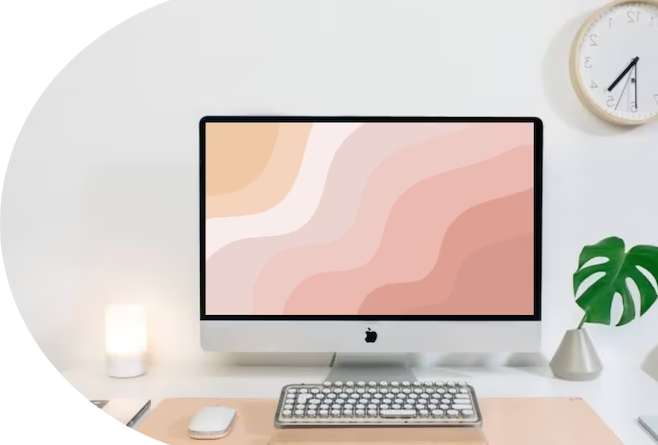
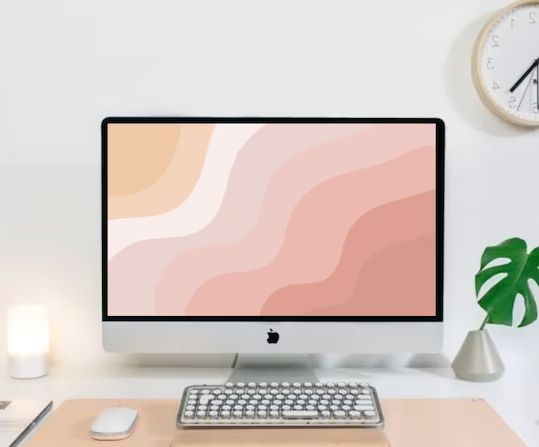
Changed style of page

diff --git a/index.html b/index.html
@@ -31,8 +31,8 @@
         <h3>Front-end developer from Ukraine, based in USA</h3>
         <a href="#" class="btn btn-branding">GET IN TOUCH</a>
       </div>
-
-      <div class="row mt-lg-5 mb-lg-5">
+      <p class="text-center m-lg-5 project-title">- About me -</p>
+      <div class="row mt-lg-2 mb-lg-5">
         <div class="col-lg-7 about-section">
           <p>
             <strong>About me:</strong>
@@ -47,21 +47,23 @@
             <br />
             HTML, CSS, JavaScript, Editor, API, GitHub, Bootstrap, Hosting
           </p>
-          <a href="" class="btn btn-branding-outline mt-3">My projects</a>
+          <a href="" class="btn btn-branding-outline d-none d-lg-inline"
+            >My projects</a
+          >
         </div>
         <div class="col-lg-5">
           <img src="/pictures/photo.JPG" alt="my photo" class="my-photo" />
         </div>
       </div>
 
-      <p class="text-center m-lg-5 project-title">🌺My projects🌺</p>
+      <p class="text-center m-lg-5 project-title">- My projects -</p>
 
       <div class="project-description row text-center">
         <div class="col d-none d-lg-block">
           <img
             src="/pictures/laptop.png"
             alt="my project photo"
-            class="project-photo img-fluid"
+            class="project-photo-l img-fluid"
           />
         </div>
         <div class="col">
@@ -91,7 +93,7 @@
           <img
             src="/pictures/laptop2.png"
             alt="my project photo"
-            class="project-photo img-fluid"
+            class="project-photo-r img-fluid"
           />
         </div>
       </div>
@@ -101,7 +103,7 @@
           <img
             src="/pictures/laptop.png"
             alt="my project photo"
-            class="project-photo img-fluid"
+            class="project-photo-l img-fluid"
           />
         </div>
         <div class="col">

diff --git a/styles/portfolio.css b/styles/portfolio.css
@@ -1,6 +1,6 @@
 :root {
   --primary-color: antiquewhite;
-  --branding-color: rgb(194, 27, 27);
+  --branding-color: #dd7f80;
   --first-font: "Playfair Display", serif;
   --second-font: "Poppins", sans-serif;
   --third-font: "Fuzzy Bubbles", cursive;
@@ -30,7 +30,7 @@ h3 {
 
 .hero {
   text-align: center;
-  background-image: url("/pictures/wallpaper.png");
+  background-image: url("/pictures/pink.jpg");
   background-size: cover;
   padding: 150px 20px;
 }
@@ -45,24 +45,33 @@ h3 {
 
 .btn-branding:hover {
   color: white;
-  background-color: rgb(179, 42, 42);
+  background-color: #cf7375;
 }
 
 .btn-branding-outline {
   color: white;
-  background-color: #e97e9e;
+  background-color: var(--branding-color);
   padding: 10px 15px;
   margin-top: 15px;
   font-size: 18px;
+  font-family: var(--third-font);
 }
 
 .btn-branding-outline:hover {
   color: white;
-  background-color: #d86f8f;
+  background-color: #cf7375;
 }
 
-.project-photo {
+.project-photo-l {
   max-width: 85%;
+  border-top-right-radius: 400px;
+  border-bottom-right-radius: 400px;
+}
+
+.project-photo-r {
+  max-width: 85%;
+  border-top-left-radius: 400px;
+  border-bottom-left-radius: 400px;
 }
 
 .project-description {
@@ -71,8 +80,8 @@ h3 {
 
 .project-title {
   font-size: 35px;
-  font-family: var(--first-font);
-  font-weight: 700;
+  font-family: var(--second-font);
+  font-weight: 500;
   margin-top: 55px;
 }
 
@@ -92,12 +101,13 @@ h3 {
 }
 
 .about-section {
-  margin-top: 90px;
+  margin-top: 80px;
   padding: 0 40px 0 90px;
 }
 
 .about-section p {
   font-size: 18px;
+  margin-bottom: 25px;
 }
 
 @media (max-width: 900px) {
